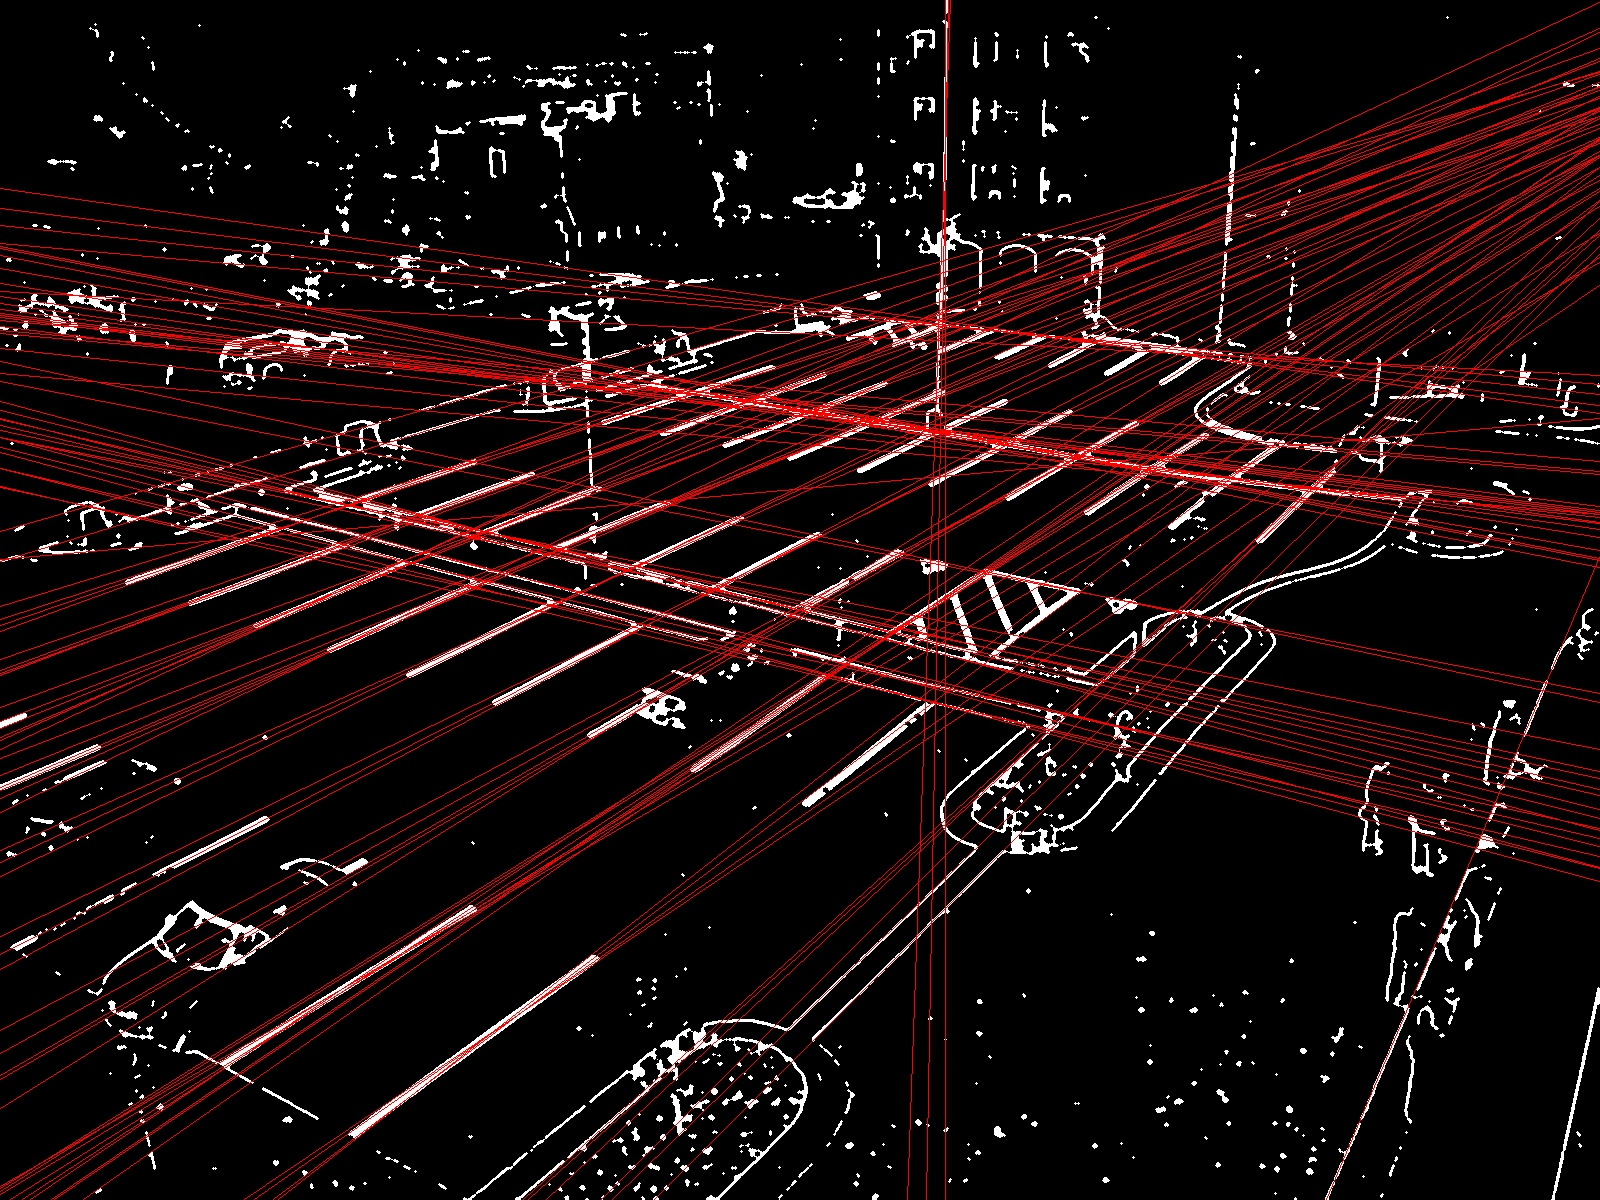
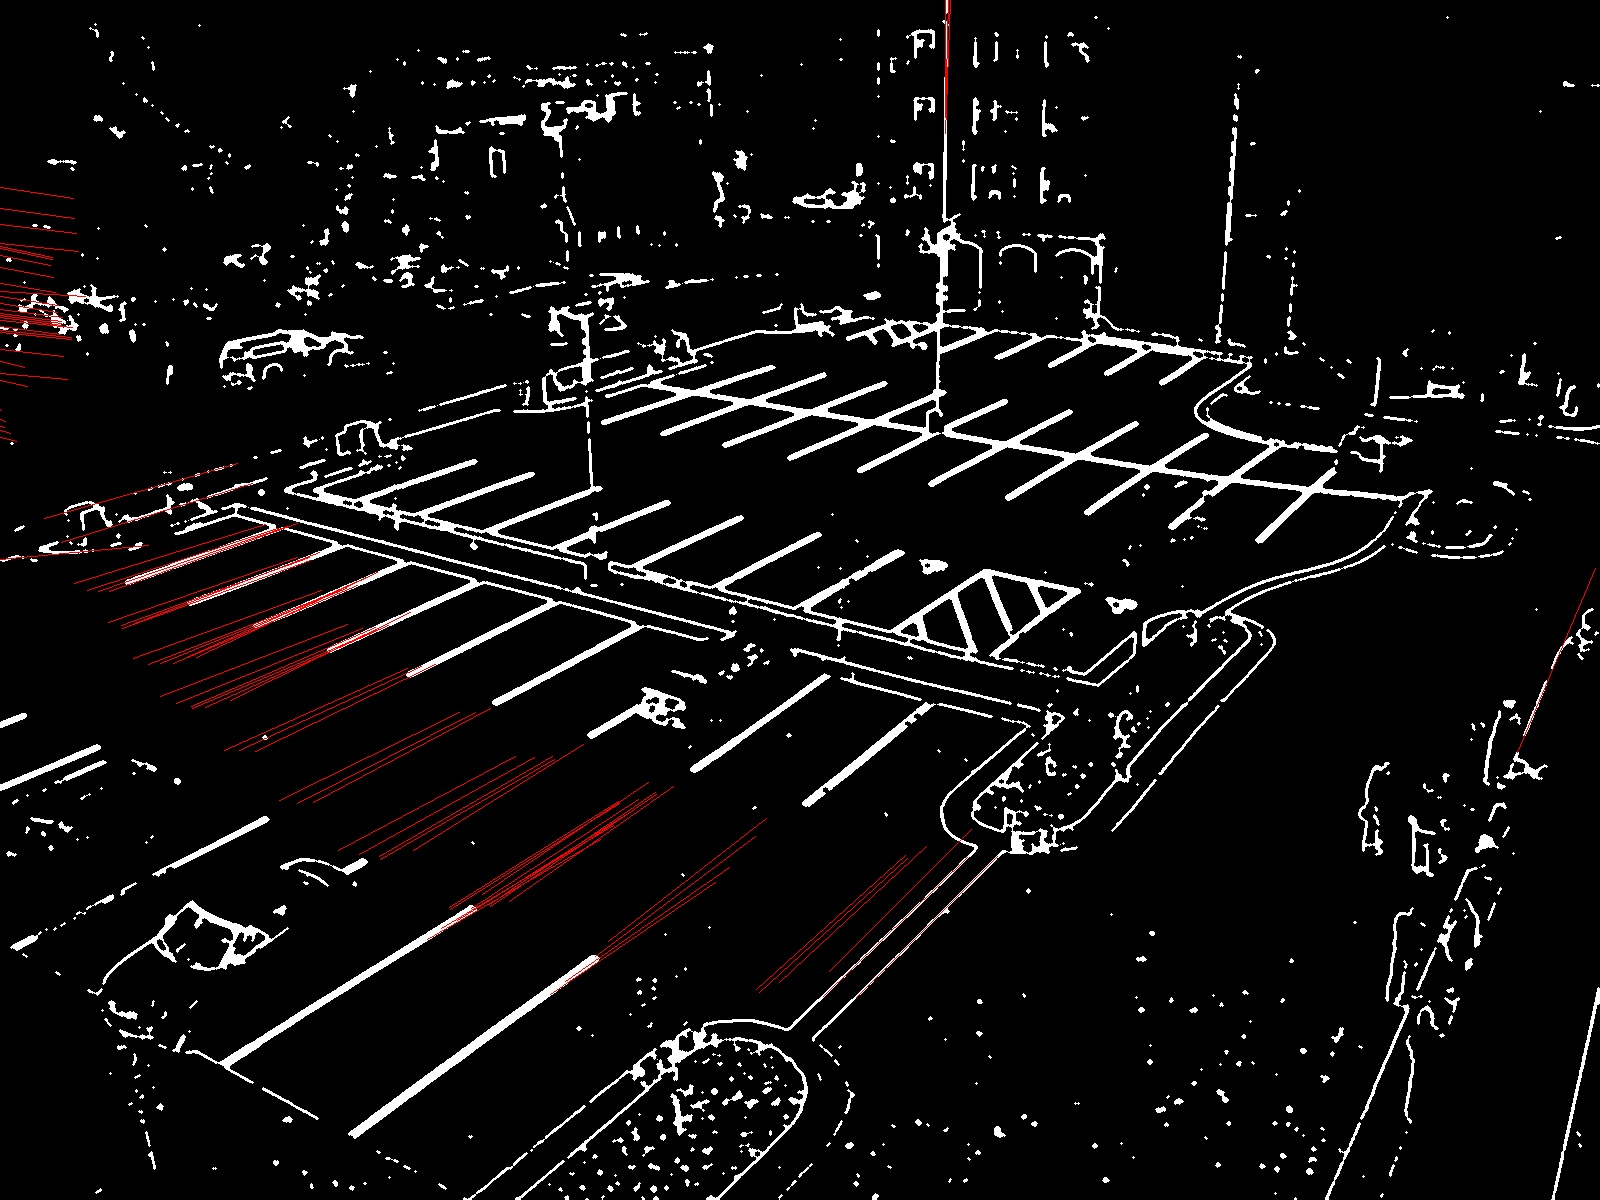
Muda algoritmo de cálculo de distância entre retas
Está melhor mas provavelmente passará por mais uma mudança

diff --git a/src/main.cpp b/src/main.cpp
@@ -33,15 +33,16 @@ Mat ExtractFeatureMat(Mat featuresMat, int featureNum);
 #define MAX_LINE_GAP 5.
 #define TAM_DILATA 7 // Pixels
 #define TAM_ERODE 5 // Pixels
-#define TAM_LINE 2000 // Pixels
+#define TAM_LINE 100 // Pixels
 // Termina Hough
 
 // Começa AKM
-#define LINE_THRES 25.
+#define SENSIBILITY 5.
+#define LINE_THRES 70.
 #define SEGLINE_THRES 50.
 
-std::vector<Vec2f> AKM( std::vector<Vec2f> input, float threshold );
-std::vector<Vec4i> AKM( std::vector<Vec4i> input, float threshold );
+std::vector<Vec2f> AKM( std::vector<Vec2f> input, float threshold, unsigned int minLines = 1 );
+std::vector<Vec4i> AKM( std::vector<Vec4i> input, float threshold, unsigned int minLines = 1 );
 // Termina AKM
 
 int main(int argc, char** argv){
@@ -298,7 +299,7 @@ int main(int argc, char** argv){
 		// Binariza
 		Mat binarizado, gray, operado;
 		cvtColor(mag, gray, COLOR_BGR2GRAY);
-		threshold(gray, binarizado, BIN_THRES, 255, THRESH_BINARY);
+		threshold(gray, binarizado, BIN_THRES, 255, THRESH_BINARY/100);
 		binarizado.convertTo(binarizado, CV_8UC1);
 		// imshow("Hough - binarizado", binarizado);
 		imwrite("./debug-data/hough-binarizado.jpg", binarizado);
@@ -399,7 +400,7 @@ Mat ExtractFeatureMat(Mat featuresMat, int featureNum) {
 // Termina GLCM
 
 // Começa AKM
-std::vector<Vec2f> AKM( std::vector<Vec2f> input, float threshold ) {
+std::vector<Vec2f> AKM( std::vector<Vec2f> input, float threshold, unsigned int minLines ) {
 	std::vector<Vec2f> means;
 	std::vector<unsigned int> amount;
 	means.push_back(input[0]);
@@ -407,9 +408,33 @@ std::vector<Vec2f> AKM( std::vector<Vec2f> input, float threshold ) {
 	for(unsigned int i = 1; i < input.size(); ++i) {
 		unsigned int smallestK = 0;
 		float smallestDist = FLT_MAX;
+
+		Point pt1, pt2;
+		{ // Computa pontos iniciais e finais da linha
+			float rho = input[i][0];
+			float theta = input[i][1];
+
+			double a = cos(theta), b = sin(theta);
+			double x0 = a*rho, y0 = b*rho;
+
+			pt1 = Point(cvRound( x0 + SENSIBILITY*(-b) ), cvRound( y0 + SENSIBILITY*a ));
+			pt2 = Point(cvRound( x0 - SENSIBILITY*(-b) ), cvRound( y0 - SENSIBILITY*a ));
+		}
 		for(unsigned int k = 0; k < means.size(); ++k) {
-			Vec2f distance = input[i] - means[k];
-			float dist = std::sqrt( std::pow(distance[0], 2) + std::pow(distance[1], 2) );
+			Point ptM1, ptM2;
+			{ // Computa pontos iniciais e finais da linha
+				float rho = means[k][0];
+				float theta = means[k][1];
+
+				double a = cos(theta), b = sin(theta);
+				double x0 = a*rho, y0 = b*rho;
+
+				ptM1 = Point(cvRound( x0 + SENSIBILITY*(-b) ), cvRound( y0 + SENSIBILITY*a ));
+				ptM2 = Point(cvRound( x0 - SENSIBILITY*(-b) ), cvRound( y0 - SENSIBILITY*a ));
+			}
+			Point distance1 = pt1 - ptM1;
+			Point distance2 = pt2 - ptM2;
+			float dist = std::sqrt( std::pow(distance1.x, 2) + std::pow(distance1.y, 2) ) + std::sqrt( std::pow(distance2.x, 2) + std::pow(distance2.y, 2) );
 			if(dist < smallestDist) {
 				smallestDist = dist;
 				smallestK = k;
@@ -419,9 +444,32 @@ std::vector<Vec2f> AKM( std::vector<Vec2f> input, float threshold ) {
 			Vec2f oldMean = means[smallestK] * ((float)amount[smallestK]++);
 			means[smallestK] = (oldMean + input[i])/((float)amount[smallestK]);
 			for(unsigned int a = 0; a < means.size(); ++a) {
+				Point pt1, pt2;
+				{ // Computa pontos iniciais e finais da linha
+					float rho = means[a][0];
+					float theta = means[a][1];
+
+					double c = cos(theta), s = sin(theta);
+					double x0 = c*rho, y0 = s*rho;
+
+					pt1 = Point(cvRound( x0 + SENSIBILITY*(-s) ), cvRound( y0 + SENSIBILITY*c ));
+					pt2 = Point(cvRound( x0 - SENSIBILITY*(-s) ), cvRound( y0 - SENSIBILITY*c ));
+				}
 				for(unsigned int b = a+1; b < means.size(); ++b) {
-					Vec2f distance = means[b] - means[a];
-					float dist = std::sqrt( std::pow(distance[0], 2) + std::pow(distance[1], 2) );
+					Point ptM1, ptM2;
+					{ // Computa pontos iniciais e finais da linha
+						float rho = means[b][0];
+						float theta = means[b][1];
+
+						double c = cos(theta), s = sin(theta);
+						double x0 = c*rho, y0 = s*rho;
+
+						ptM1 = Point(cvRound( x0 + SENSIBILITY*(-s) ), cvRound( y0 + SENSIBILITY*c ));
+						ptM2 = Point(cvRound( x0 - SENSIBILITY*(-s) ), cvRound( y0 - SENSIBILITY*c ));
+					}
+					Point distance1 = pt1 - ptM1;
+					Point distance2 = pt2 - ptM2;
+					float dist = std::sqrt( std::pow(distance1.x, 2) + std::pow(distance1.y, 2) ) + std::sqrt( std::pow(distance2.x, 2) + std::pow(distance2.y, 2) );
 					if(dist < threshold) {
 						float newAmount = amount[b]+amount[a];
 						Vec2f newMean = ( means[b]*((float)amount[b]) + means[a]*((float)amount[a]) )/newAmount;
@@ -437,10 +485,16 @@ std::vector<Vec2f> AKM( std::vector<Vec2f> input, float threshold ) {
 			amount.push_back(1);
 		}
 	}
+	for(unsigned int a = 0; a < means.size(); ++a) {
+		if(amount[a] < minLines) {
+			means.erase(means.begin()+a);
+			amount.erase(amount.begin()+ a--);
+		}
+	}
 	return means;
 }
 
-std::vector<Vec4i> AKM( std::vector<Vec4i> input, float threshold ) {
+std::vector<Vec4i> AKM( std::vector<Vec4i> input, float threshold, unsigned int minLines ) {
 	std::vector<Vec4i> means;
 	std::vector<unsigned int> amount;
 	means.push_back(input[0]);
@@ -450,7 +504,7 @@ std::vector<Vec4i> AKM( std::vector<Vec4i> input, float threshold ) {
 		float smallestDist = FLT_MAX;
 		for(unsigned int k = 0; k < means.size(); ++k) {
 			Vec4i distance = input[i] - means[k];
-			float dist = std::sqrt( std::pow(distance[0], 2) + std::pow(distance[1], 2) + std::pow(distance[2], 2) + std::pow(distance[3], 2) );
+			float dist = std::sqrt( std::pow(distance[0], 2) + std::pow(distance[1], 2) ) + std::sqrt( std::pow(distance[2], 2) + std::pow(distance[3], 2) );
 			if(dist < smallestDist) {
 				smallestDist = dist;
 				smallestK = k;
@@ -462,7 +516,7 @@ std::vector<Vec4i> AKM( std::vector<Vec4i> input, float threshold ) {
 			for(unsigned int a = 0; a < means.size(); ++a) {
 				for(unsigned int b = a+1; b < means.size(); ++b) {
 					Vec4i distance = means[b] - means[a];
-					float dist = std::sqrt( std::pow(distance[0], 2) + std::pow(distance[1], 2) + std::pow(distance[2], 2) + std::pow(distance[3], 2) );
+					float dist = std::sqrt( std::pow(distance[0], 2) + std::pow(distance[1], 2) ) + std::sqrt( std::pow(distance[2], 2) + std::pow(distance[3], 2) );
 					if(dist < threshold) {
 						float newAmount = amount[b]+amount[a];
 						Vec4i newMean = ( means[b]*((float)amount[b]) + means[a]*((float)amount[a]) )/newAmount;
@@ -476,6 +530,12 @@ std::vector<Vec4i> AKM( std::vector<Vec4i> input, float threshold ) {
 		} else {
 			means.push_back(input[i]);
 			amount.push_back(1);
+		}
+	}
+	for(unsigned int a = 0; a < means.size(); ++a) {
+		if(amount[a] < minLines) {
+			means.erase(means.begin()+a);
+			amount.erase(amount.begin()+ a--);
 		}
 	}
 	return means;
